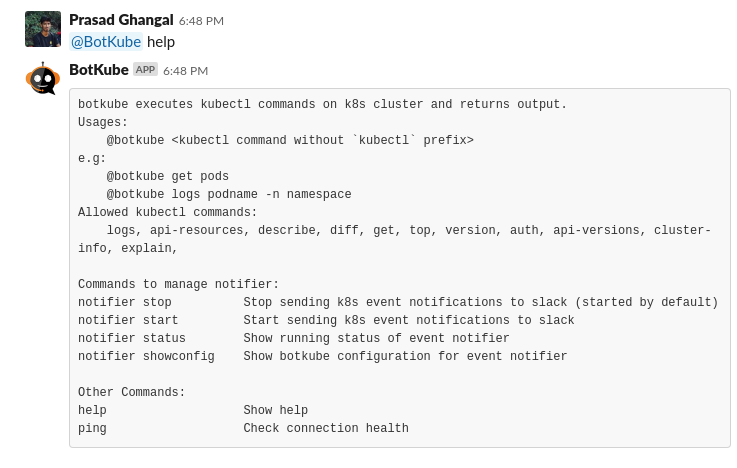
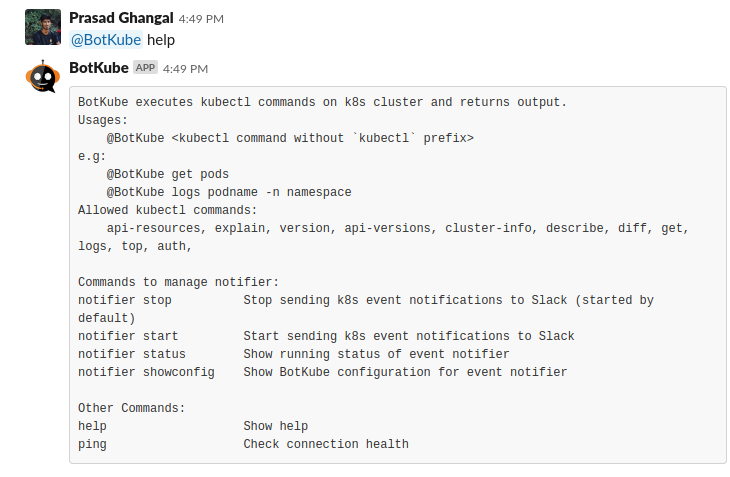
Update help screenshot Capitalize 'K' in kubernetes Add missing links in installation headers

Changed region(s): [[0.0301, 0.0, 1.0, 0.9573], [0.3315, 0.8675, 0.5726, 0.9573]]

diff --git a/content/_index.md b/content/_index.md
@@ -71,7 +71,7 @@ title: "BotKube"
 }
 </style>
 
-The BotKube app for Slack helps to monitor your kubernetes cluster, debugging deployments and run specific checks on resource specs.
+The BotKube app for Slack helps to monitor your Kubernetes cluster, debugging deployments and run specific checks on resource specs.
 
 <h2>What can BotKube do?</h2>
 <div style="overflow: auto;">
@@ -81,7 +81,7 @@ The BotKube app for Slack helps to monitor your kubernetes cluster, debugging de
   <div class="rightimage">
     <h1>Monitor</h1>
     <ul>
-      <li>BotKube controller watches kubernetes resources and sends a notification to the Slack channel if any event occurs</li>
+      <li>BotKube controller watches Kubernetes resources and sends a notification to the Slack channel if any event occurs</li>
       <li>Easy to configure BotKube to receive notifications only about specific resources and events that you are interested in</li>
       <li>Turn on/off notifications simply by sending a message to @BotKube</li>
     </ul>
@@ -130,7 +130,7 @@ The BotKube app for Slack helps to monitor your kubernetes cluster, debugging de
 <h2>Features</h2>
 <div style="overflow: auto;">
   <div class="leftfeature">
-    <h4><i class="fas fa-fw fa-user-secret"></i> Privacy</h4> You install the backend for the Slack app to your kubernetes cluster. We don't collect any data.
+    <h4><i class="fas fa-fw fa-user-secret"></i> Privacy</h4> You install the backend for the Slack app to your Kubernetes cluster. We don't collect any data.
   </div>
   <div class="rightfeature">
   <h4><i class="fas fa-terminal"></i> Execute kubectl commands</h4> Execute kubectl command as it is. No need to learn new command syntax.
@@ -140,7 +140,7 @@ The BotKube app for Slack helps to monitor your kubernetes cluster, debugging de
 <div style="overflow: auto;">
   <div class="leftfeature">
     <h4><i class="fas fa-cogs"></i>  Debug Anywhere, Anytime</h4>
-With @BotKube you can monitor and debug kubernetes deployments without a terminal.
+With @BotKube you can monitor and debug Kubernetes deployments without a terminal.
 You can even ask @BotKube to execute kubectl commands from mobile Slack app.
   </div>
   <div class="rightfeature">
@@ -152,7 +152,7 @@ Resource kinds, Resources namespaces, Events types
 
 <div style="overflow: auto;">
   <div class="leftfeature">
-    <h4><i class="fas fa-cloud"></i>  Deploy on any k8s cluster</h4> You can deploy BotKube controller on any kubernetes cluster, irrespective of whether it is running locally (minikube) or managed by any cloud providers.
+    <h4><i class="fas fa-cloud"></i>  Deploy on any k8s cluster</h4> You can deploy BotKube controller on any Kubernetes cluster, irrespective of whether it is running locally (minikube) or managed by any cloud providers.
   </div>
   <div class="rightfeature">
     <h4><i class="fas fa-plug"></i>  Add custom filters</h4> It is very easy to write your own filters and registering them to FilterEngine. Follow <a href=/filters>this</a> guide to know more about it.

diff --git a/content/installation/_index.md b/content/installation/_index.md
@@ -14,19 +14,19 @@ BotKube has two components that need to be installed.
 
 <p>Follow the following steps to install BotKube Slack app to your Slack workspace.</p>
 
-<h4>Install BotKube Slack app to your Slack workspace</h4>
+<h4 id="h-install-BotKube-slackapp"><a href="#h-install-BotKube-slackapp">Install BotKube Slack app to your Slack workspace</a></h4>
 
 Click the **Add to Slack** button provided to install BotKube Slack application to your workspace. Once you authorized the application, you will be provided a BOT Access token. Kindly note down that token which will be required while deploying BotKube controller to your cluster.
 <a href="https://slack.com/oauth/authorize?scope=bot&client_id=12637824912.515475697794"><img alt="Add to Slack" height="40" width="139" src="https://platform.slack-edge.com/img/add_to_slack.png" srcset="https://platform.slack-edge.com/img/add_to_slack.png 1x, https://platform.slack-edge.com/img/add_to_slack@2x.png 2x" /></a>
 
 Alternetively, you can install BotKube Slack app from Slack app directory.
 
-<h4>Add BotKube user to a Slack channel</h4>
+<h4 id="h-add-botkube-slackchannel"><a href="#h-add-botkube-slackchannel">Add BotKube user to a Slack channel</a></h4>
 
-After installing BotKube app to your Slack workspace, you could see new bot user with name 'BotKube' added in your workspace. Add that bot to a Slack channel you want to receive notification in.<br>
+After installing BotKube app to your Slack workspace, you could see new bot user with name "BotKube" added in your workspace. Add that bot to a Slack channel you want to receive notification in.<br>
 (You can add it by inviting posting **@BotKube** message in a channel)
 
-<h3 class="section-head" id="h-install-BotKube-k8s"><a href="#h-install-BotKube-k8s">Install BotKube controller to the kubernetes cluster</a></h3>
+<h3 class="section-head" id="h-install-BotKube-k8s"><a href="#h-install-BotKube-k8s">Install BotKube controller to the Kubernetes cluster</a></h3>
 
 <h4>Using helm</h4>
 
@@ -55,7 +55,7 @@ where,<br>
 <br>
 <h4>Using kubectl</h4>
 
-- Make sure that you have kubectl cli installed and have access to kubernetes cluster
+- Make sure that you have kubectl cli installed and have access to Kubernetes cluster
 - Download deployment specs yaml
 
 ```bash
@@ -87,7 +87,7 @@ $ kubectl create ns botkube && kubectl create -f deploy-all-in-one.yaml -n botku
 - Goto Slack <a href="https://slack.com/apps/manage">manage apps</a> page<br>
 - Click on "BotKube" and click on "Remove App" button
 
-<h3 class="section-head" id="h-uninstall-BotKube-k8s"><a href="#h-uninstall-BotKube-k8s">Remove BotKube controller from kubernetes cluster</a></h3>
+<h3 class="section-head" id="h-uninstall-BotKube-k8s"><a href="#h-uninstall-BotKube-k8s">Remove BotKube controller from Kubernetes cluster</a></h3>
 <h4>Using helm</h4>
 <p>If you have installed BotKube controller using **helm**, execute following command to completely remove BotKube and related resources from your cluster</p>
 

diff --git a/content/usage/_index.md b/content/usage/_index.md
@@ -6,7 +6,7 @@ weight: 40
 ---
 
 <h3 class="section-head" id="h-show-help"><a href="#h-show-help">Debugging deployments using BotKube</a></h3>
-@BotKube allows you to execute kubectl commands on your kubernetes cluster.
+@BotKube allows you to execute kubectl commands on your Kubernetes cluster.
 Send **@BotKube help** in the Slack channel or directly to the BotKube user to find more information about the supported commands.
 ![help](/images/help.png)
 As suggested in help message, to execute kubectl commands, send message in following format in the Slack chennel where BotKube is already added or as a direct message to BotKube.
@@ -16,7 +16,7 @@ As suggested in help message, to execute kubectl commands, send message in follo
 See [Examples](/examples/#h-examples) for the use cases.
 
 <h3 class="section-head" id="h-manage-notif"><a href="#h-manage-notif">Managing Slack notifications</a></h3>
-Depending upon your configuration, you will receive Slack notifications about kubernetes resources lifecycle events and their health.
+Depending upon your configuration, you will receive Slack notifications about Kubernetes resources lifecycle events and their health.
 BotKube bot allows you to enable/disable notifications using direct messages. Send **@BotKube help** in the Slack channel where the bot is added or as a direct message to the BotKube, the bot will reply with the help message about the supported message formats.
 
 ![BotKube_help](/images/help.png)
@@ -39,7 +39,7 @@ This command will open configmap specs in vim editor. Do the required changes, s
 
 
 <h4 class="section-head" id="h-check-health"><a href="#h-check-health">Check BotKube health</a></h4>
-Send **@BotKube ping** to the Slack channel where BotKube is added. The BotKube will respond you with message **PONG** if it is running. Else check the deployment in kubernetes cluster in the **botkube** namespace.
+Send **@BotKube ping** to the Slack channel where BotKube is added. The BotKube will respond you with message **PONG** if it is running. Else check the deployment in Kubernetes cluster in the **botkube** namespace.
 
 ![ping](/images/ping.png)
 

diff --git a/content/privacy.md b/content/privacy.md
@@ -6,6 +6,6 @@ title = "Privacy Policy"
 
 We don't store your data, period. 
 
-You host backend for BotKube Slack application in your own kubernetes cluster. We do not collect or send any kind of information.
+You host backend for BotKube Slack application in your own Kubernetes cluster. We do not collect or send any kind of information.
 
 Any future changes to this document will be posted on this page. 
